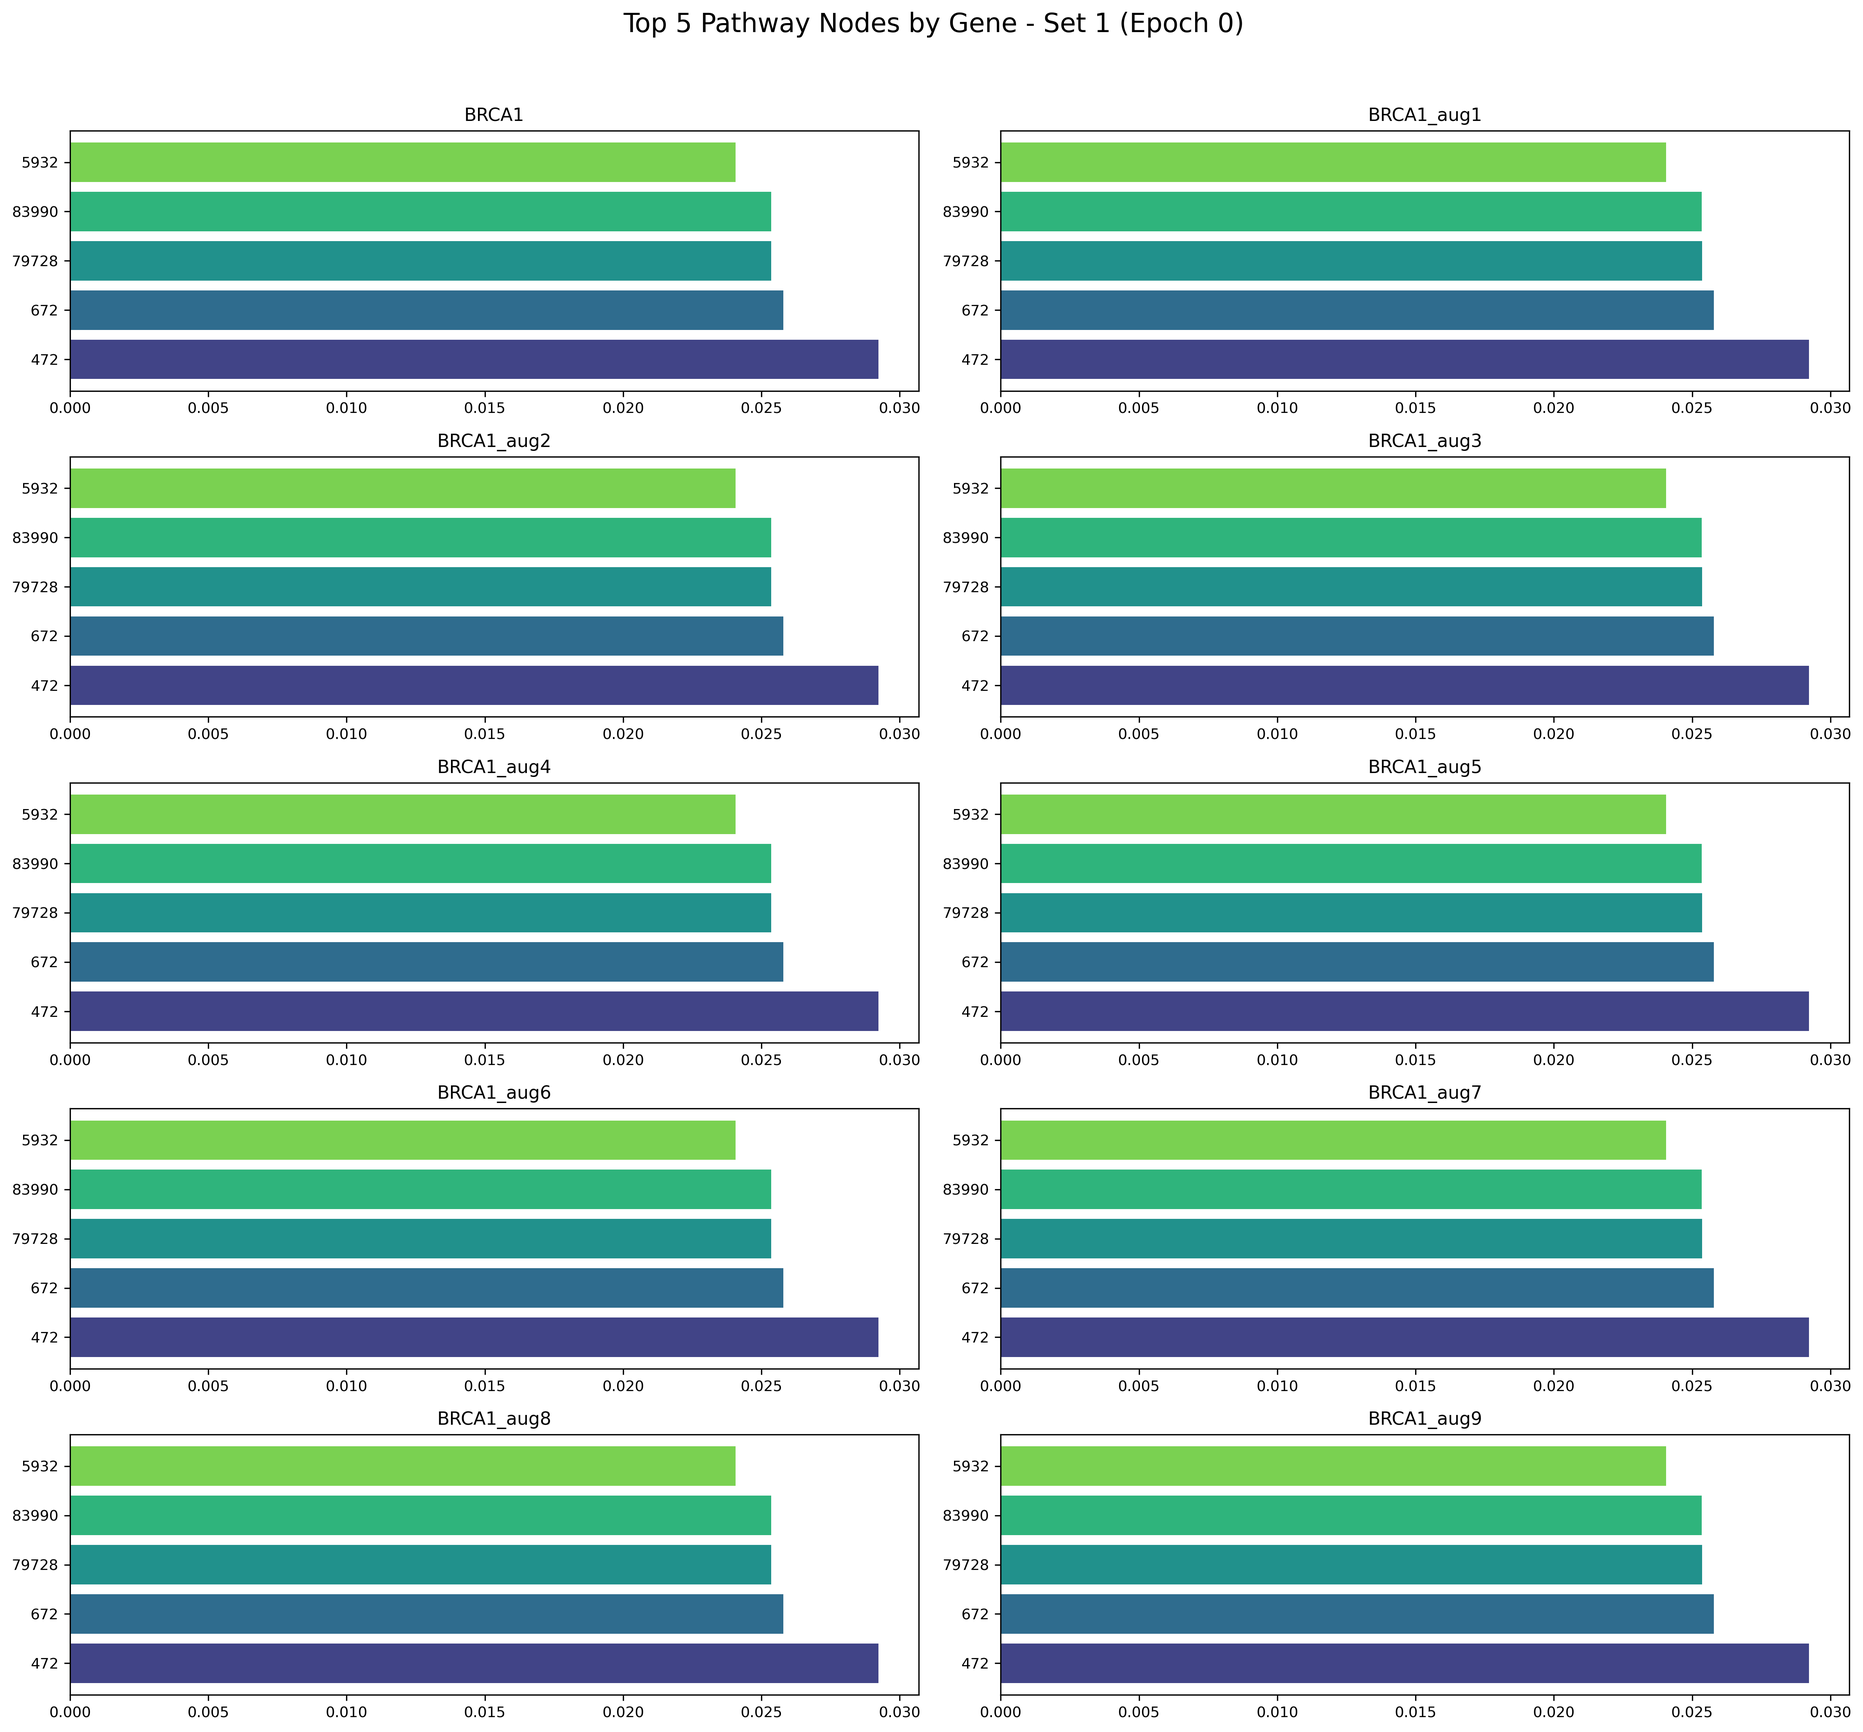
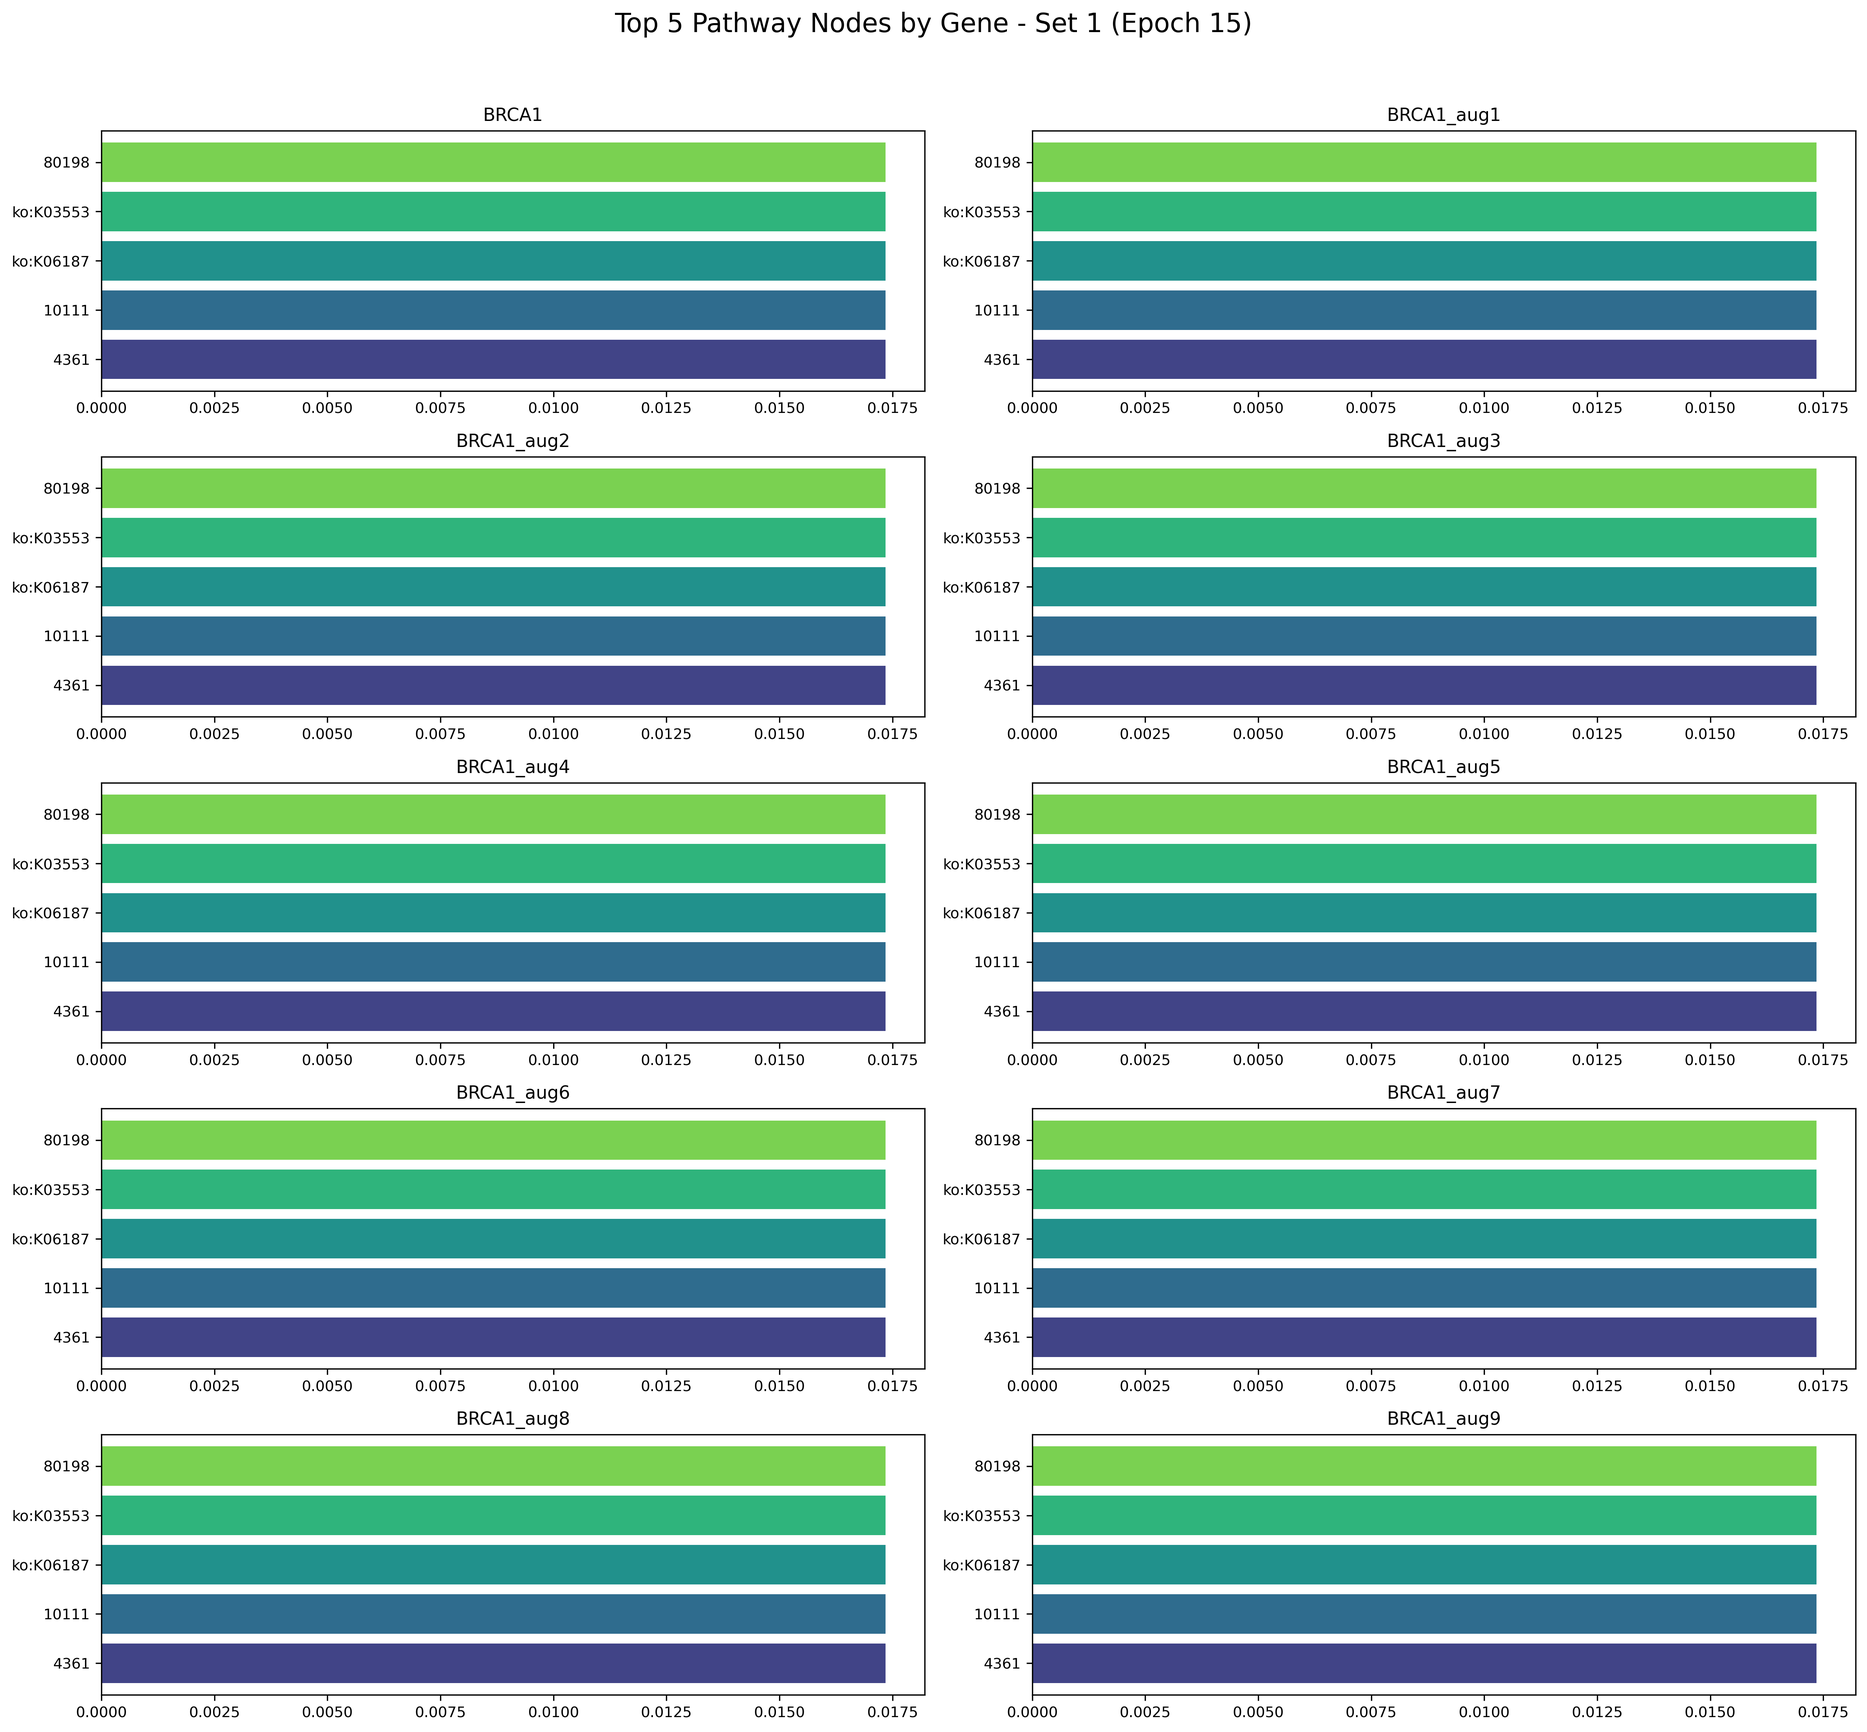
better model + optimization

diff --git a/gene_pathway_ai/src/train.py b/gene_pathway_ai/src/train.py
@@ -18,9 +18,34 @@ import seaborn as sns
 from data_loader import load_gene_sequences, load_pathway_graph, load_genes_from_dir
 from model import FusionModel
 from utils import seq_to_onehot, check_cuda
-from visualize import visualize_latent_space, visualize_attention, visualize_attention_for_all_genes, visualize_attention_for_original_genes
+from visualize import visualize_latent_space, visualize_attention, visualize_attention_for_all_genes, visualize_attention_for_original_genes, visualize_original_genes_attention
 from losses import HybridLoss
+import torch.nn as nn
+import torch.nn.functional as F
 
+class DiversityRegularizedLoss(nn.Module):
+    def __init__(self, base_criterion=nn.BCEWithLogitsLoss(), diversity_weight=0.5):
+        super().__init__()
+        self.base_criterion = base_criterion
+        self.diversity_weight = diversity_weight
+        
+    def forward(self, predictions, targets, attention_weights=None):
+        base_loss = self.base_criterion(predictions, targets)
+        if attention_weights is not None and self.diversity_weight > 0:
+            batch_size = attention_weights.size(0)
+            if batch_size > 1:
+                norm_weights = F.normalize(attention_weights, p=2, dim=1)
+                similarity_matrix = torch.mm(norm_weights, norm_weights.transpose(0, 1))
+                identity = torch.eye(batch_size, device=attention_weights.device)
+                similarity_matrix = similarity_matrix * (1 - identity)
+                mean_similarity = similarity_matrix.sum() / (batch_size * (batch_size - 1))
+                return base_loss + self.diversity_weight * mean_similarity
+            else:
+                entropy = -torch.sum(attention_weights * torch.log(attention_weights + 1e-10))
+                return base_loss - 0.01 * entropy
+        
+        return base_loss
+    
 def prepare_data(pos_dir: str, neg_dir: str, pathway_file: str = None, preloaded_pathway_data = None) -> Tuple[DataLoader, DataLoader, torch.Tensor, List[str], torch.Tensor]:
     device = torch.device("cuda" if torch.cuda.is_available() else "cpu")
     from ensembl_api import get_gene_disease_associations
@@ -144,21 +169,34 @@ def prepare_data(pos_dir: str, neg_dir: str, pathway_file: str = None, preloaded
     
     return train_loader, val_loader, pathway_data, gene_names
 
-def train_one_epoch(model, train_loader, optimizer, criterion, scaler, device, pathway_data, accumulation_steps):
+def train_one_epoch(model, train_loader, optimizer, criterion, scaler, device, pathway_data, accumulation_steps=1):
     model.train()
-    optimizer.zero_grad()
     total_loss = 0.0
+    steps = 0
     
-    for i, (genes, disease_counts, labels) in enumerate(train_loader):
-        genes, disease_counts, labels = genes.to(device), disease_counts.to(device), labels.to(device)
+    for idx, (genes, disease_counts, labels) in enumerate(train_loader):
+        genes = genes.to(device)
+        disease_counts = disease_counts.to(device)
+        labels = labels.to(device)
         with autocast():
-            predictions, attn_weights, latent = model(genes, pathway_data, disease_counts=disease_counts)
+            predictions, attn_weights, _ = model(genes, pathway_data, disease_counts=disease_counts)
             loss = criterion(predictions, labels, attn_weights)
-        loss.backward()
-        optimizer.step()
-        optimizer.zero_grad()
-        total_loss += loss.item() * genes.size(0)
+        loss = loss / accumulation_steps
+        scaler.scale(loss).backward()
+        if idx % accumulation_steps == 0 or idx == len(train_loader) - 1:
+            torch.nn.utils.clip_grad_norm_(model.parameters(), max_norm=1.0)
+            scaler.step(optimizer)
+            scaler.update()
+            optimizer.zero_grad()
         
+        total_loss += loss.item() * genes.size(0) * accumulation_steps
+        steps += 1
+        if loss.item() < 1e-6:
+            print("Warning: Loss approaching zero too quickly. Adding regularization.")
+            for param in model.parameters():
+                if param.requires_grad:
+                    loss = loss + 0.01 * torch.norm(param)
+    
     return total_loss / len(train_loader.dataset)
 
 def evaluate(model, val_loader, device, pathway_data, criterion, epoch=None, 
@@ -276,6 +314,48 @@ def visualize_all_gene_attention(model, train_loader, val_loader, device, pathwa
             )
             break
 
+def process_all_genes_for_visualization(model, train_loader, val_loader, device, pathway_data, gene_names):
+    print("Processing all genes for visualization...")
+    all_genes = []
+    all_disease_counts = []
+    all_labels = []
+    gene_names_ordered = []
+    seen_genes = set()
+    for batch_idx, (genes, disease_counts, labels) in enumerate(train_loader):
+        for i in range(len(genes)):
+            if batch_idx * train_loader.batch_size + i < len(gene_names):
+                gene_name = gene_names[batch_idx * train_loader.batch_size + i] 
+                if gene_name not in seen_genes:  
+                    seen_genes.add(gene_name)
+                    gene_names_ordered.append(gene_name)
+                    all_genes.append(genes[i])
+                    all_disease_counts.append(disease_counts[i])
+                    all_labels.append(labels[i])
+
+    for batch_idx, (genes, disease_counts, labels) in enumerate(val_loader):
+        for i in range(len(genes)):
+            idx = len(train_loader.dataset) + batch_idx * val_loader.batch_size + i
+            if idx < len(gene_names):
+                gene_name = gene_names[idx]
+                if gene_name not in seen_genes: 
+                    seen_genes.add(gene_name)
+                    gene_names_ordered.append(gene_name)
+                    all_genes.append(genes[i])
+                    all_disease_counts.append(disease_counts[i])
+                    all_labels.append(labels[i])
+    
+    genes_tensor = torch.stack(all_genes).to(device)
+    disease_counts_tensor = torch.stack(all_disease_counts).to(device)
+    labels_tensor = torch.stack(all_labels).to(device)
+    model.eval()
+    with torch.no_grad():
+        _, attn_weights, embeddings = model(genes_tensor, pathway_data, disease_counts=disease_counts_tensor)
+    
+    print(f"Successfully processed {len(gene_names_ordered)} genes")
+    print(f"Attention weights shape: {attn_weights.shape}")
+    print(f"Embeddings shape: {embeddings.shape}")
+    return attn_weights, embeddings, labels_tensor, gene_names_ordered
+
 def main(args: Dict, preloaded_pathway_data=None) -> None:
     check_cuda()
     device = torch.device("cuda" if torch.cuda.is_available() else "cpu")
@@ -302,11 +382,11 @@ def main(args: Dict, preloaded_pathway_data=None) -> None:
     
     print(f"Model initialized with sequence length {seq_len} and {pathway_feat_dim} pathway features")
     from torch.optim.lr_scheduler import ReduceLROnPlateau
-    optimizer = optim.AdamW(model.parameters(), lr=5e-5, weight_decay=0.01) 
+    optimizer = optim.Adam(model.parameters(), lr=1e-4)  # Reduce learning rate
     scheduler = ReduceLROnPlateau(optimizer, mode='min', factor=0.5, patience=3, min_lr=1e-6)
     
     scaler = GradScaler()
-    criterion = HybridLoss()
+    criterion = DiversityRegularizedLoss()
     pathway_node_names = []
     if hasattr(pathway_data, 'node_names'):
         pathway_node_names = pathway_data.node_names
@@ -347,19 +427,44 @@ def main(args: Dict, preloaded_pathway_data=None) -> None:
             torch.save(model.state_dict(), os.path.join(args.output_dir, "best_model.pt"))
             is_best = True
             
-            if pathway_node_names is not None and gene_names is not None:
+            if pathway_node_names is not None:
                 print("Generating visualizations for best model...")
-                full_dataset = ConcatDataset([train_loader.dataset, val_loader.dataset])
-                visualize_attention_for_original_genes(
-                    model,
-                    full_dataset,
+                
+                attn_weights, embeddings, labels, matched_gene_names = process_all_genes_for_visualization(
+                    model, 
+                    train_loader, 
+                    val_loader, 
                     device, 
                     pathway_data,
-                    pathway_node_names,
-                    gene_names,
-                    epoch,
-                    save_dir="results"
+                    gene_names
                 )
+                
+                visualize_attention(
+                    attn_weights,
+                    matched_gene_names,
+                    pathway_node_names,
+                    epoch,
+                    save_dir="results",
+                    suffix="_best"
+                )
+                
+                visualize_latent_space(
+                    embeddings.cpu().numpy(),
+                    labels.cpu().numpy(),
+                    gene_names=matched_gene_names,
+                    filename="results/best_umap.png"
+                )
+            
+            full_dataset = ConcatDataset([train_loader.dataset, val_loader.dataset])
+            visualize_original_genes_attention(
+                model,
+                full_dataset,
+                device,
+                pathway_data,
+                pathway_node_names,
+                gene_names,
+                save_dir="results"
+            )
         else:
             patience_counter += 1
             if patience_counter >= patience:

diff --git a/gene_pathway_ai/src/model.py b/gene_pathway_ai/src/model.py
@@ -11,6 +11,7 @@ from torch_geometric.data.data import DataEdgeAttr, DataTensorAttr
 from torch_geometric.data.graph_store import EdgeLayout
 from torch_geometric.data.storage import GlobalStorage, EdgeStorage, NodeStorage
 import os
+import math
 add_safe_globals([
     Data, 
     DataTensorAttr, 
@@ -102,23 +103,40 @@ class PathwayGNN(nn.Module):
         return x
 
 class CrossModalAttentionLayer(nn.Module):
-    def __init__(self, gene_dim, pathway_dim, attn_dim):
+    def __init__(self, gene_dim, pathway_dim, attn_dim, dropout=0.2):
         super().__init__()
         self.query_proj = nn.Linear(gene_dim, attn_dim)
         self.key_proj = nn.Linear(pathway_dim, attn_dim)
         self.value_proj = nn.Linear(pathway_dim, attn_dim)
+        self.layer_norm1 = nn.LayerNorm(attn_dim)
+        self.layer_norm2 = nn.LayerNorm(attn_dim)
+        self.dropout = nn.Dropout(dropout)  
         self.softmax = nn.Softmax(dim=-1)
+        self.gene_attn_bias = nn.Linear(gene_dim, attn_dim)
+        nn.init.xavier_normal_(self.query_proj.weight)
+        nn.init.xavier_normal_(self.key_proj.weight)
+        self.scale_factor = 1.0 / (attn_dim ** 0.5)
     
     def forward(self, gene_embedding, pathway_node_features):
         batch_size = gene_embedding.size(0)
+        num_nodes = pathway_node_features.size(0)
+        Q = self.query_proj(gene_embedding)  
+        Q = self.layer_norm1(Q).unsqueeze(1)  
+        gene_bias = self.gene_attn_bias(gene_embedding) 
         pathway_nodes = pathway_node_features.unsqueeze(0).expand(batch_size, -1, -1)
-        Q = self.query_proj(gene_embedding).unsqueeze(1)
-        K = self.key_proj(pathway_nodes)
+        K_base = self.key_proj(pathway_nodes) 
+        bias_expanded = gene_bias.unsqueeze(1).expand(-1, num_nodes, -1)
+        K = self.layer_norm2(K_base + 0.1 * bias_expanded)
+        
         V = self.value_proj(pathway_nodes)
-        scores = torch.matmul(Q, K.transpose(1, 2))
-        attn_weights = self.softmax(scores)
-        attn_output = torch.matmul(attn_weights, V)
-        return attn_output.squeeze(1), attn_weights.squeeze(1)
+        attn_scores = torch.bmm(Q, K.transpose(1, 2)) * self.scale_factor
+        if self.training:
+            noise = torch.randn_like(attn_scores) * 0.1
+            attn_scores = attn_scores + noise
+        attn_weights = self.dropout(self.softmax(attn_scores))
+        context = torch.bmm(attn_weights, V).squeeze(1)
+        
+        return context, attn_weights.squeeze(1)
 
 class FusionModel(nn.Module):
     def __init__(self, gene_dim: int = 256, pathway_dim: int = 256, 

diff --git a/gene_pathway_ai/src/visualize.py b/gene_pathway_ai/src/visualize.py
@@ -163,6 +163,25 @@ def attention_heatmap(attn_weights, gene_names, node_names, filename="heatmap.pn
     plt.savefig(filename)
     plt.close()
 
+def extract_original_genes_only(gene_names, embeddings):
+    original_indices = []
+    original_names = []
+    
+    for i, name in enumerate(gene_names):
+        if "_aug" not in name:
+            if i < len(embeddings):
+                original_indices.append(i)
+                original_names.append(name)
+    
+    if original_indices:
+        if isinstance(embeddings, torch.Tensor):
+            original_embeddings = embeddings[original_indices]
+        else:  
+            original_embeddings = embeddings[original_indices]
+        return original_names, original_embeddings
+    else:
+        return [], None
+
 def visualize_attention_for_all_genes(model, dataset, device, pathway_data, pathway_node_names, gene_names, epoch, save_dir="results"):
     model.eval()
     full_loader = DataLoader(dataset, batch_size=len(dataset), shuffle=False)
@@ -244,3 +263,33 @@ def visualize_attention_for_original_genes(model, dataset, device, pathway_data,
                 save_dir=save_dir,
                 suffix="_original_only"
             )
+
+def visualize_original_genes_attention(model, dataset, device, pathway_data, pathway_node_names, gene_names, save_dir="results"):
+    print("Creating attention visualization for original genes only...")
+    original_names = [name for name in gene_names if "_aug" not in name]
+    loader = DataLoader(dataset, batch_size=len(dataset), shuffle=False)
+    
+    model.eval()
+    with torch.no_grad():
+        for genes, disease_counts, labels in loader:
+            genes = genes.to(device)
+            disease_counts = disease_counts.to(device)
+            _, attn_weights, _ = model(genes, pathway_data, disease_counts=disease_counts)
+            original_indices = [i for i, name in enumerate(gene_names) if "_aug" not in name and i < len(attn_weights)]
+            
+            if not original_indices:
+                print("ERROR: Couldn't find original genes in the batch")
+                return
+                
+            original_attn = attn_weights[original_indices]
+            
+            print(f"Visualizing attention for {len(original_indices)} original genes")
+            visualize_attention(
+                original_attn,
+                [gene_names[i] for i in original_indices],
+                pathway_node_names,
+                0,  
+                save_dir=save_dir,
+                suffix="_original_only"
+            )
+            break
